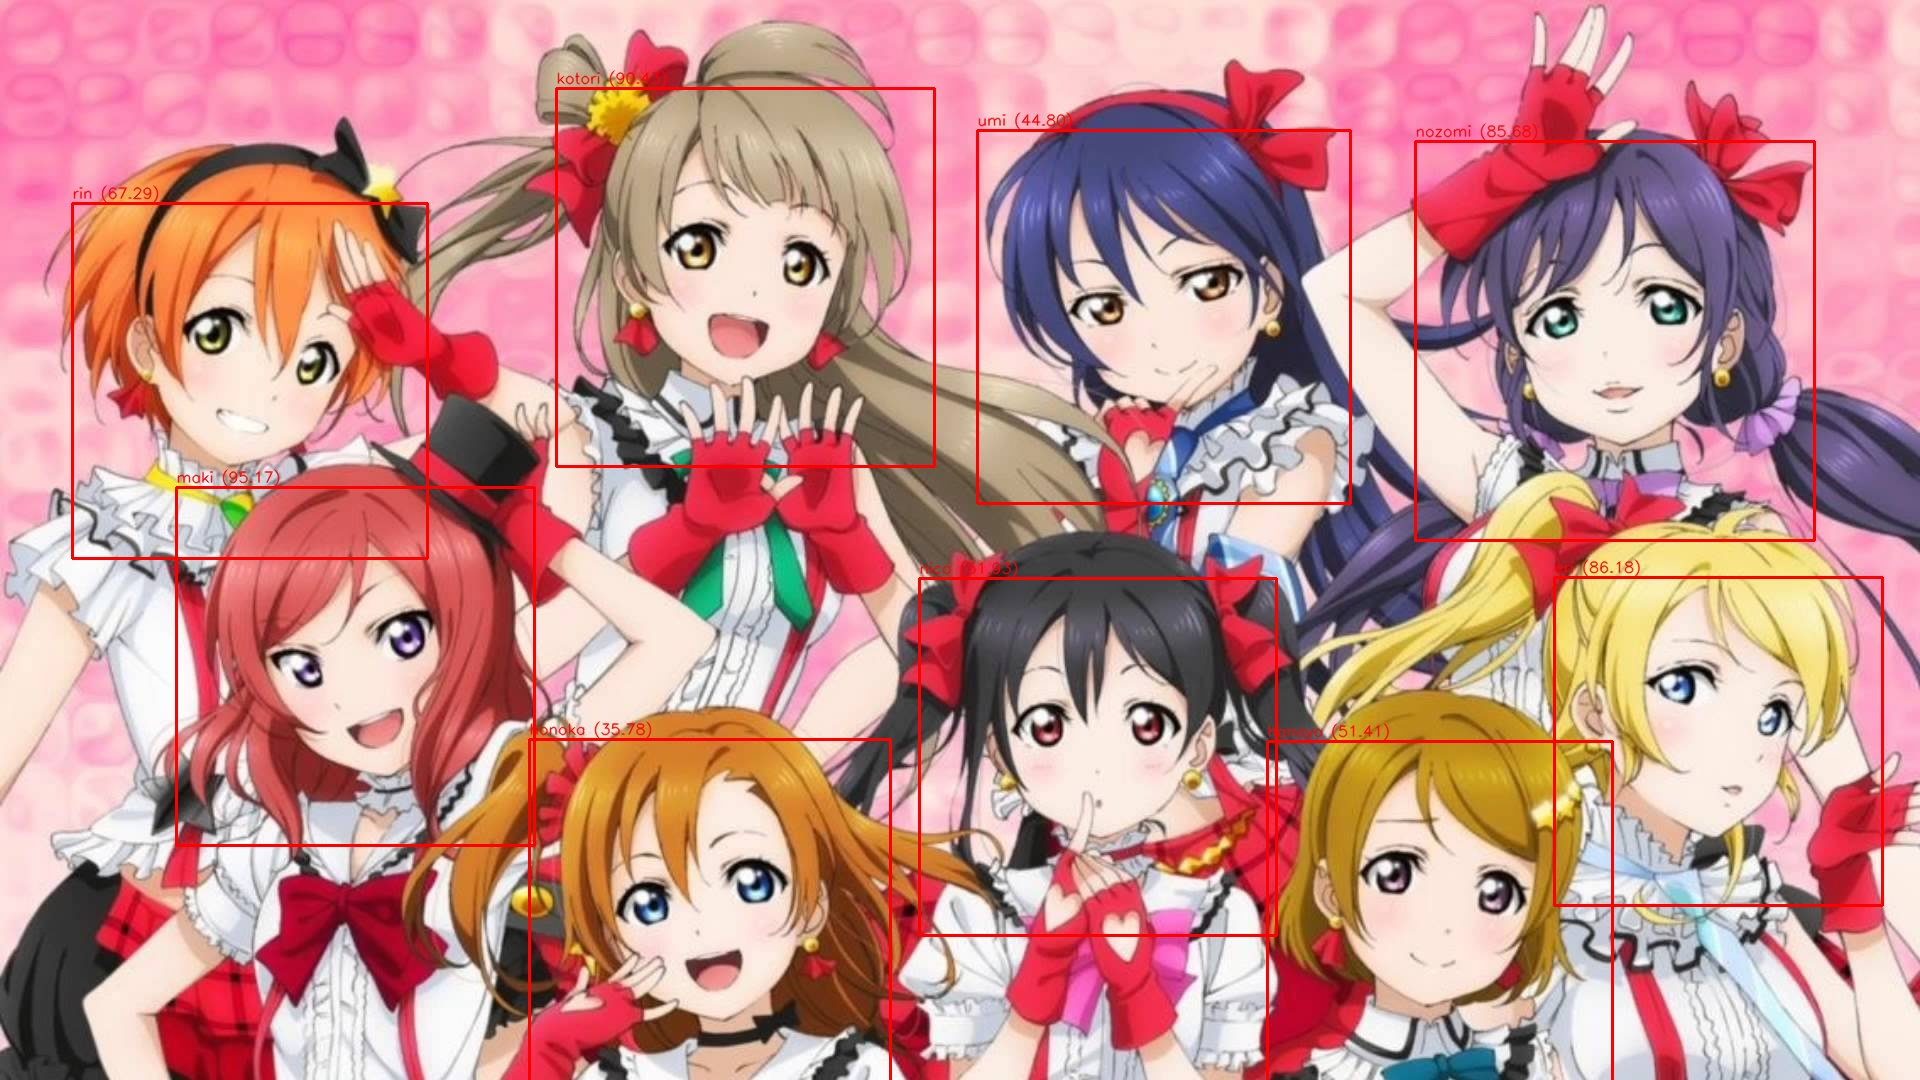
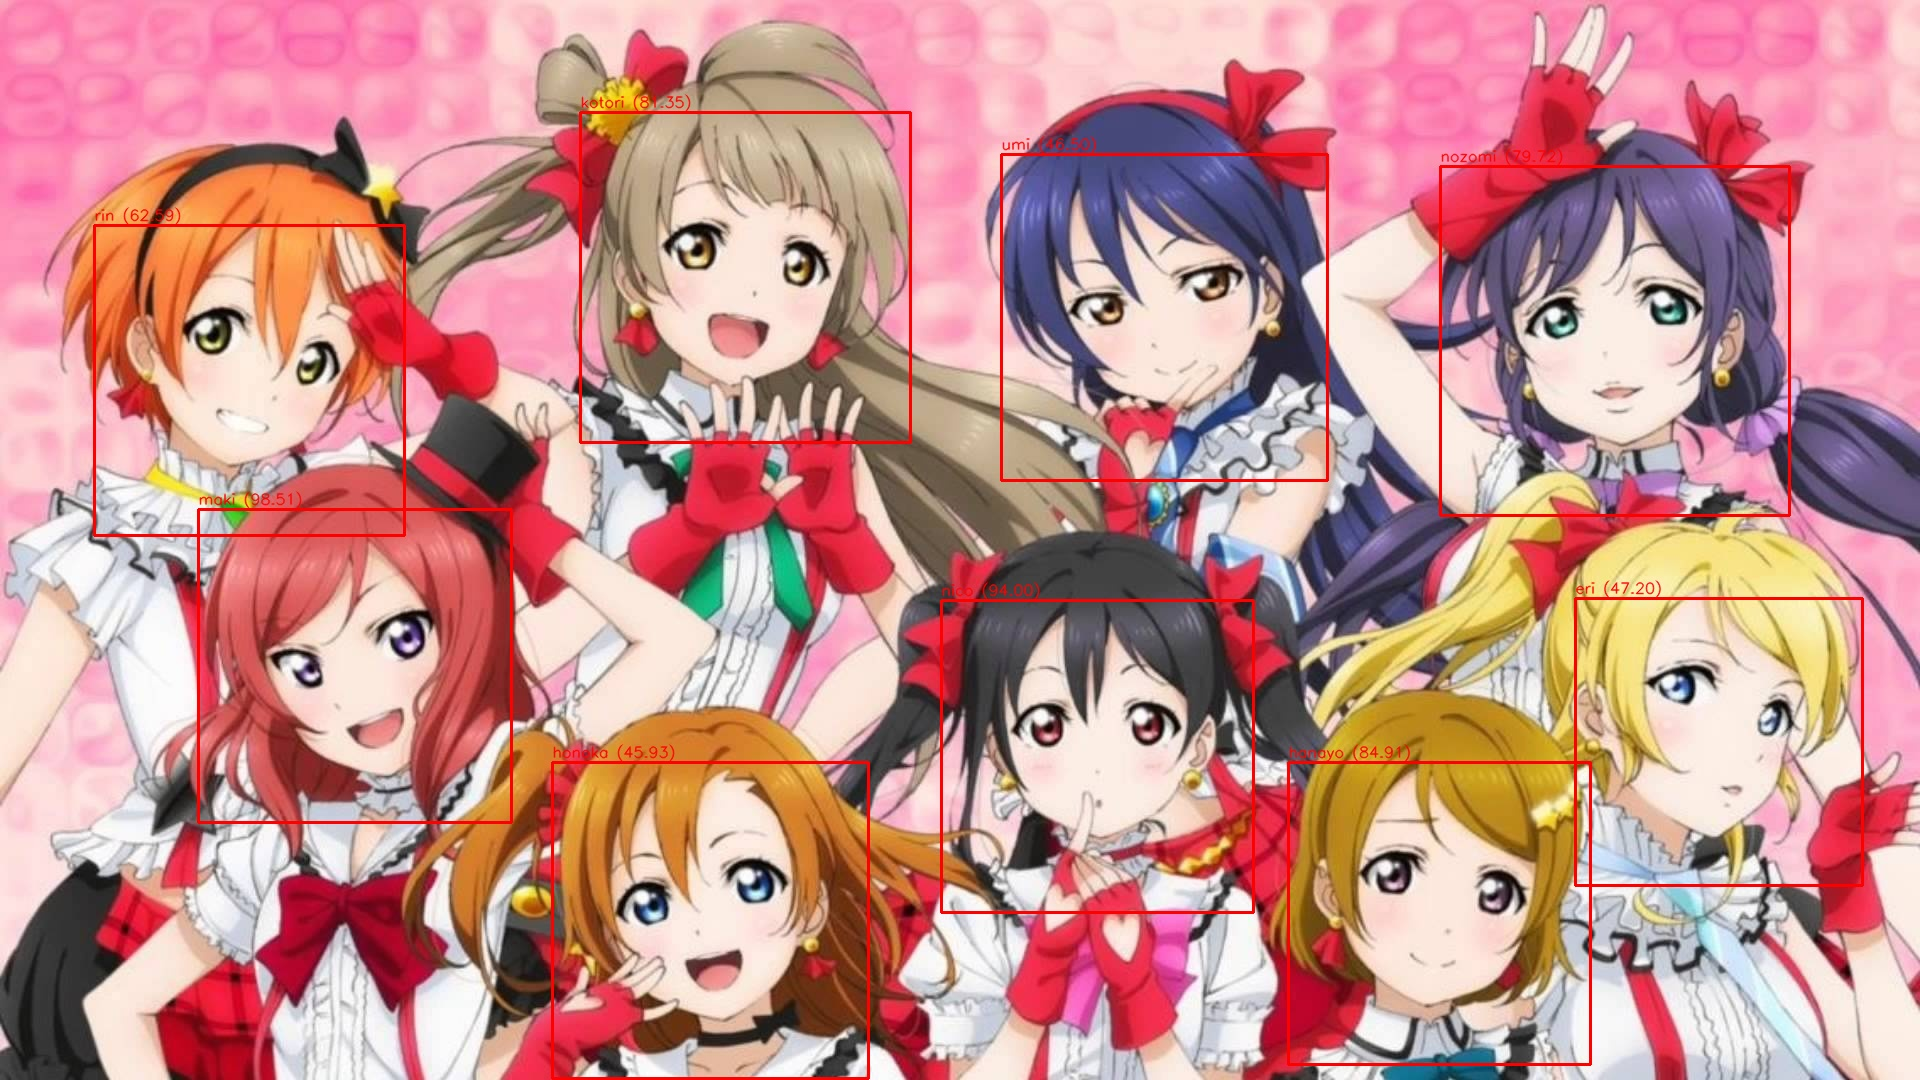
Clean up dataset, use sklearn's pipeline

Changed region(s): [[0.0312, 0.0611, 1.0, 1.0]]

diff --git a/svc.py b/svc.py
@@ -24,31 +24,38 @@ from sklearn.gaussian_process.kernels import RBF
 from sklearn.preprocessing import StandardScaler, Normalizer
 from sklearn.grid_search import GridSearchCV
 from sklearn.decomposition import PCA
+from sklearn.pipeline import Pipeline
+from sklearn.metrics import fbeta_score, make_scorer
+from sklearn.metrics import confusion_matrix
+
+def print_cm(cm, labels, hide_zeroes=False, hide_diagonal=False, hide_threshold=None):
+    """pretty print for confusion matrixes"""
+    # https://gist.github.com/zachguo/10296432
+    columnwidth = max([len(x) for x in labels] + [5])  # 5 is value length
+    empty_cell = " " * columnwidth
+    # Print header
+    print("    " + empty_cell, end=" ")
+    for label in labels:
+        print("%{0}s".format(columnwidth) % label, end=" ")
+    print()
+    # Print rows
+    for i, label1 in enumerate(labels):
+        print("    %{0}s".format(columnwidth) % label1, end=" ")
+        for j in range(len(labels)):
+            cell = "%{0}.1f".format(columnwidth) % cm[i, j]
+            if hide_zeroes:
+                cell = cell if float(cm[i, j]) != 0 else empty_cell
+            if hide_diagonal:
+                cell = cell if i != j else empty_cell
+            if hide_threshold:
+                cell = cell if cm[i, j] > hide_threshold else empty_cell
+            print(cell, end=" ")
+        print()
+
 
 categories = ['eri', 'hanayo', 'honoka', 'kotori', 'maki', 'nico', 'nozomi', 'rin', 'umi']
 with open("categories.txt", "w") as f:
     f.write(json.dumps(categories))
-
-# mobilenet+linearsvm without pca,scaling
-# globalaveragePooling2D
-# -13 *: 96.1%/71.0%
-# -14:   98.2%/68.6%*
-# -15:   96.9%/74.3%*
-# -16 *: 89.6%/73.9%
-# -17:   96.8%/70.0%*
-# -20 *: 98.4%/74.3%*
-# -26 *: 98.4%/70.0%*
-# C=1e5: 97.4%/75.7%*
-# C=1e6: 97.1%/75.7%*
-# C=5e6: 97.9%/78.6%*
-# C=6e6: 97.6%/77.1%*
-
-# pca @ 512
-# resnet50: 98.9%/87.0%
-# resnet50 (@452): 98.9%/88.4%
-# xception:  99.1%/56.2%
-# inceptionV3: 99.1%/51.8%
-
 
 try:
     X, y = joblib.load('features.pkl')
@@ -77,35 +84,32 @@ except:
             X.append(np.squeeze(features(img)))
             y.append(i)
 
-X_train, X_test, y_train, y_test = cross_validation.train_test_split(X, y, test_size=0.1, random_state=0)
+X_train, X_test, y_train, y_test = cross_validation.train_test_split(X, y, test_size=0.05, random_state=0)
 
-# Apply standard scaler to output from resnet50
 scaler = sklearn.preprocessing.StandardScaler()
-scaler.fit(X_train)
-X_train = scaler.transform(X_train)
-X_test = scaler.transform(X_test)
+pca = PCA(whiten=True, random_state=0)
+pipeline=Pipeline(steps=[('scaler', scaler), ('pca', pca), ('svc', SVC(probability=True))])
 
-# Take PCA to reduce feature space dimensionality
-pca = PCA(n_components=452, svd_solver='full', whiten=True, random_state=0)
-pca = pca.fit(X_train)
-print('Explained variance percentage = %0.2f' % sum(pca.explained_variance_ratio_))
-X_train = pca.transform(X_train)
-X_test = pca.transform(X_test)
-print("fitting...")
-
-C=[1, 10, 100, 1000]
+#{'pca__n_components': 384, 'svc__C': 100, 'svc__gamma': 0.0001, 'svc__kernel': 'rbf'}
+#{'pca__n_components': 384, 'svc__C': 1, 'svc__kernel': 'linear'}
+C=[1, 5, 10, 100]
+#n_components = [128, 256, 384, 480, 512]
+n_components = [320, 384, 416, 448, 480]
 params = [
     {
-        'C': C,
-        'kernel': ['linear']
+        'pca__n_components': n_components,
+        'svc__C': C,
+        'svc__kernel': ['linear']
     },
     {
-        'C': C,
-        'gamma': [0.001, 0.0001],
-        'kernel': ['rbf']
+        'pca__n_components': n_components,
+        'svc__C': C,
+        'svc__gamma': [0.001, 0.0001],
+        'svc__kernel': ['rbf']
     },
 ]
-clf = GridSearchCV(estimator=SVC(probability=True), param_grid=params, n_jobs=-1)
+clf = GridSearchCV(pipeline, params,
+                   n_jobs=-1, verbose=3)
 clf.fit(X_train, y_train)
 
 # View the best parameters for the model found using grid search
@@ -116,7 +120,7 @@ classifier = clf.best_estimator_
 y_pred = classifier.predict(X_test)
 print("Score: {0:0.1f}%".format(classifier.score(X_train, y_train)*100))
 print("Accuracy: {0:0.1f}%".format(accuracy_score(y_test,y_pred)*100))
+print_cm(confusion_matrix(y_test, y_pred), labels=categories)
 
 joblib.dump((X, y), 'features.pkl')
-joblib.dump((scaler, pca, classifier), 'classifier.pkl')
-#joblib.dump(classifier, 'classifier.pkl')
+joblib.dump(classifier, 'classifier.pkl')

diff --git a/classifier-img-svc.py b/classifier-img-svc.py
@@ -12,16 +12,12 @@ fw = fh = 128
 
 model_final = load_model("model.h5")
 
-(scaler, pca, classifier) = joblib.load('classifier.pkl')
-#classifier = joblib.load('classifier.pkl')
+classifier = joblib.load('classifier.pkl')
 
 def features(img):
     img = cv2.resize(img, (197, 197))
     img = np.reshape(img, (1, 197, 197, 3))
     f = np.reshape(model_final.predict(img)[0], (1, -1))
-    f = scaler.transform(f)
-    f = pca.transform(f)
-    #print(f)
     return f
 
 cascade = cv2.CascadeClassifier('lbpcascade_animeface.xml')
@@ -37,7 +33,7 @@ faces = cascade.detectMultiScale(gray,
             minNeighbors = 5,
             minSize = (24, 24))
 
-scale = 1.2
+scale = 1.05
 for (x, y, w, h) in faces:
     x -= w*(scale-1)/2
     w *= scale

diff --git a/README.md b/README.md
@@ -8,24 +8,14 @@ Unlike methods from [here](https://github.com/freedomofkeima/transfer-learning-a
 
 ## Dataset
 
-For each of the 9 characters in *muse*, I collected give-or-take 77 images with their respective tags from yande.re and konachan.com. Faces were extracted from the images using lbp-cascade and hand-filtered so as to remove noise, other characters and non-conforming art styles (ie. chibi versions). They were then all scaled to 128x128px.
+For each of the 9 characters in *muse*, I collected give-or-take 77 images with their respective tags from yande.re and konachan.com. Faces were extracted from the images using [lbp-cascade](https://github.com/nagadomi/lbpcascade_animeface) and hand-filtered so as to remove noise, other characters and non-conforming art styles (ie. chibi versions). They were then all scaled to 128x128px.
 
-The dataset is comprised of 684 files, 10% of them is used for validation.
+The dataset is comprised of 688 files, 5% of them is used for validation.
 
 ## Pipeline
 
 For the model, deep, high-level features is extracted from each image of every character. Then, the features are normalized using a stddev scaler. Using PCA, the feature space of X dimensions is reduced to Y components. The post-reduced features are finally classified using a support vector machine (SVM).
 
-Here's a comparison of models used to extract deep features.
+ResNet50 (X=2048) and Y=320 is used for the model. The SVM used has parameters of `{'svc__C': 1, 'svc__kernel': 'linear'}`
 
-|  Model                      | X  | Y |  Training accuracy |  Validation accuracy |
-|-----------------------------|----|---|--------------------|----------------------|
-| MobileNet (13th conv layer) |1024| - | 96.1%              | 71.0%                |
-| MobileNet (12th conv layer) |512 | - | 89.6%              | 73.9%                |
-| ResNet50                    |2048|452| 98.9%              | 88.4%                |
-| Xception                    |2048|512| 98.7%              | 43.5%                |
-| InceptionV3                 |2048|512| 99.1%              | 51.8%                |
-
-ResNet50 and Y=452 is used for the model. Y was finely tuned from a baseline of 512.
-
-The SVM used is `SVM(C=10, gamma=0.0001, kernel="rbf")`
+With the current dataset it can classify 98.5% of the training set correctly and 91.4% of the validation set correctly.
